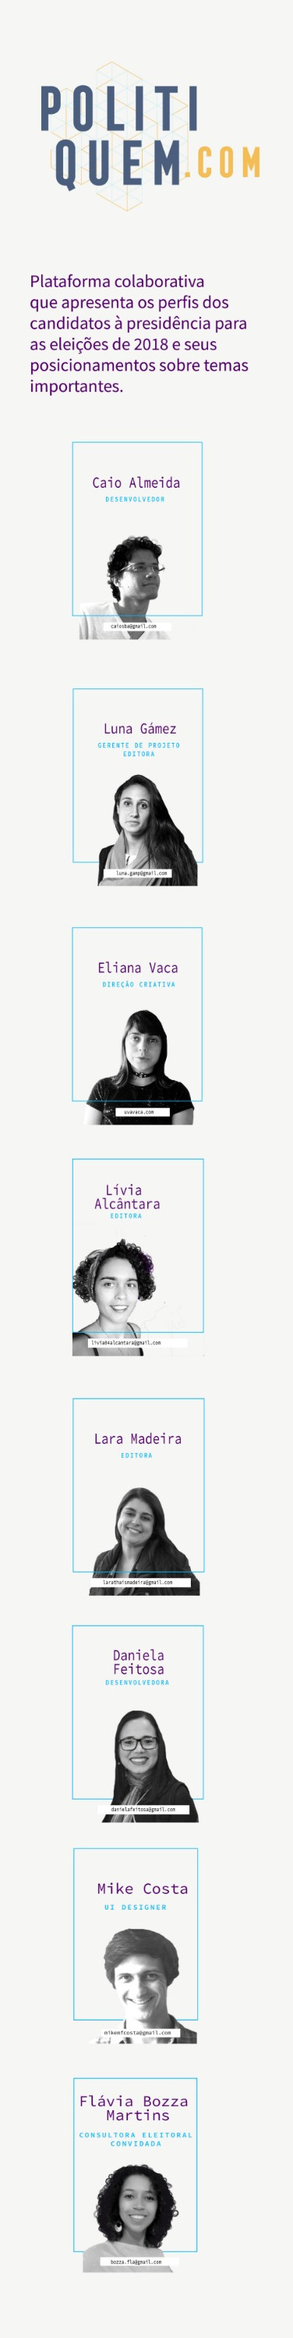
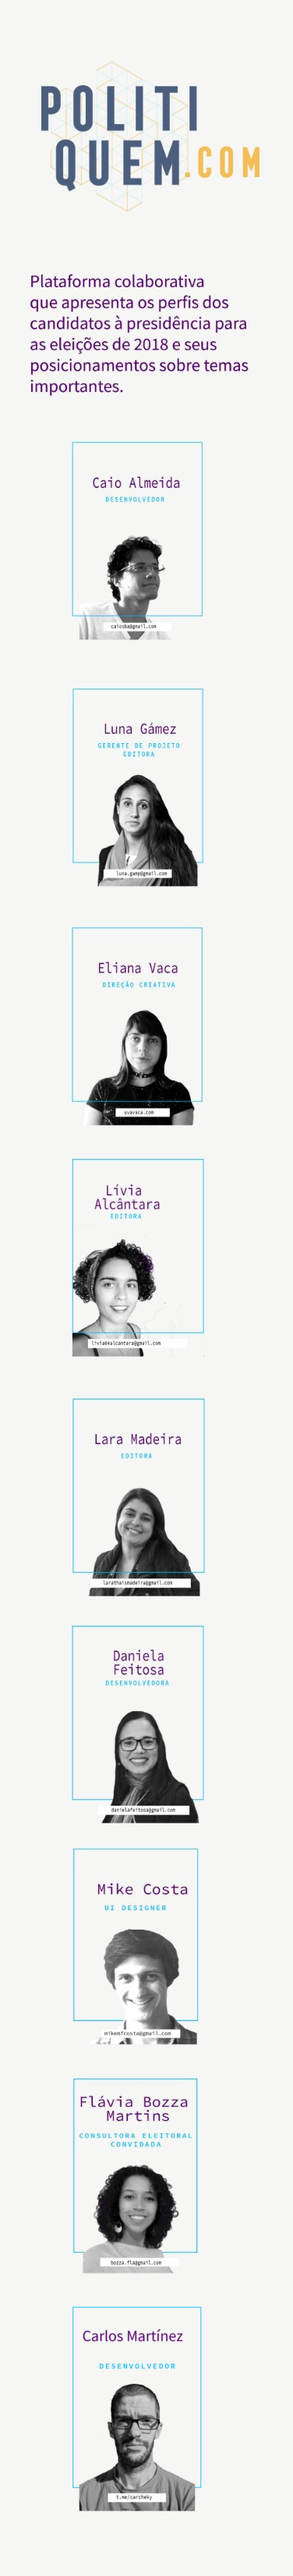
Update

diff --git a/politiquem-v2/src/App.js b/politiquem-v2/src/App.js
@@ -19,7 +19,7 @@ import img360 from './img/logo_360.png';
 import imgpoder from './img/logo_opodereleger.jpg';
 import imgbrazilian from './img/logo_brazilian.png';
 import imgjustificando from './img/logo_justificando.png';
-import imgcongreso from './img/logo_congressoemfoco.jpg';
+import imgcongreso from './img/logo_congressoemfoco.png';
 import imgchicas from './img/logo_chicas.png';
 import imgbriohunter from './img/logo_briohunter.png';
 import imgcheck from './img/check.png';
@@ -31,6 +31,9 @@ import chicas from './chicas.png';
 import justificando from './justificando.png';
 import poder360 from './poder360.png';
 import poderdeeleger from './poderdeeleger.png';
+import congresso from './congresso.png';
+import escavadores from './escavadores.png';
+import uniceub from './uniceub.png';
 
 import authorPolitiquem from './author/politiquem.png';
 import authorJustificando from './author/justificando.png';
@@ -55,6 +58,7 @@ class App extends Component {
     super(props);
     this.state = {
       showModal: false,
+      truncate: true,
       modalTopic: null,
       page: null,
       pageTopic: null,
@@ -74,6 +78,10 @@ class App extends Component {
     
   handleCloseModal() {
     this.setState({ showModal: false });
+  }
+
+  toggleTruncate() {
+    this.setState({ truncate: !this.state.truncate });
   }
 
   filter() {
@@ -99,6 +107,7 @@ class App extends Component {
       });
       document.getElementById('topic').value = 'all';
       document.getElementById('candidate').value = 'all';
+      document.location.hash = '';
     });
   }
 
@@ -128,15 +137,13 @@ class App extends Component {
   }
 
   setPageTopic(pageTopic) {
-    this.setState({ pageTopic });
-  }
-
-  componentDidMount() {
-    window.onhashchange = function() {
-      if (window.location.hash === '') {
-        window.location.reload();
-      }
-    };
+    if (pageTopic) {
+      window.location = '/#tema/' + pageTopic;
+    }
+    else {
+      window.location = '/#temas';
+    }
+    this.setState({ pageTopic, truncate: true });
   }
 
   componentWillMount() {
@@ -144,7 +151,10 @@ class App extends Component {
     const topicsPerCandidate = [];
     const allTopicsPerCandidate = [];
     let id = 0;
-    for (var name in data) {
+    const namesList = Object.keys(data).sort().reverse();
+    let i = 0;
+    for (i = 0; i < namesList.length; i++) {
+      const name = namesList[i];
       id++;
       const obj = data[name];
       const parts = data[name]['Nome Urna'].split(' ');
@@ -157,7 +167,7 @@ class App extends Component {
       obj.agency = 'Politiquem';
       candidates.push(obj);
     }
-    let i = 0;
+    i = 0;
     candidates.forEach(candidate => {
       topics.forEach(topic => {
         i++;
@@ -184,8 +194,38 @@ class App extends Component {
     });
   }
 
+  componentDidMount() {
+    const hash = document.location.hash;
+    if (/^#candidato/.test(hash)) {
+      const name = hash.replace(/^#candidato\//, '');
+      this.state.candidates.forEach((c) => {
+        if (c.name === decodeURIComponent(name)) {
+          this.selectCandidate(c);
+        }
+      });
+    }
+    else if (/^#temas$/.test(hash)) {
+      this.changePage('topics', { pageTopic: null });
+    }
+    else if (/^#tema/.test(hash)) {
+      const topic = hash.replace(/^#tema\//, '');
+      this.changePage('topics', { pageTopic: topic });
+    }
+    else if (/^#nos$/.test(hash)) {
+      this.changePage('us');
+    }
+    else if (/^#parceiros$/.test(hash)) {
+      this.changePage('partners');
+    }
+    window.onhashchange = function() {
+      if (window.location.hash === '') {
+        window.location.reload();
+      }
+    };
+  }
+
   resetCandidates() {
-    window.location.reload();
+    window.location = '/';
   }
 
   share(network) {
@@ -227,7 +267,7 @@ class App extends Component {
 
           <ul id="candidates">
             {this.state.candidates.length > 1 ? this.state.candidates.map(field => (
-              <a href={`#candidate-${field.id}`}>
+              <a href={`#candidato/${field.name}`}>
                 <li key={field.id} onClick={this.selectCandidate.bind(this, field)}>
                   <span className="avatar"><img src={field.Picture} alt="" /></span>
                   <h4>{field.name}</h4>
@@ -322,12 +362,16 @@ class App extends Component {
         <p>Designer digital de Portugal, que mistura arte e tecnologia. Seus trabalhos são focados em narrativa, design de interação, UI e desenvolvimento para web. E-mail mikemfcosta@gmail.com</p>
         <p><b>Flávia Bozza Martins, consultora eleitoral convidada</b></p>
         <p>Cientista política, especialista em comportamento eleitoral.É pós-doutoranda no IESP/UERJ e contribui como analista na empresa Vértice Inteligência Digital.</p>
+        <p><b></b></p>
+        <p><b>Carlos Martínez, desenvolvedor</b></p>
+        <p>Escoteiro e desenvolvedor web. Adora a tecnologia, os animais e a natureza. Seu principal desejo é contribuir com um mundo melhor utilizando a tecnologia. Contato: http://t.me/carcheky</p>
       </div>
     );
 
     const topicsPage = (
       <div className="page">
-        <h2>Tema{ this.state.pageTopic ? `: ${this.state.pageTopic}` : 's' } { this.state.pageTopic ? <FontAwesomeIcon onClick={this.handleOpenModal.bind(this, this.state.pageTopic)} style={{ color: '#CCC', cursor: 'pointer' }} icon={faQuestionCircle} /> : null }</h2>
+        <h2>Tema{ this.state.pageTopic ? `: ${this.state.pageTopic}` : 's' }</h2>
+        { this.state.pageTopic ? <p style={{ cursor: 'pointer' }} onClick={this.toggleTruncate.bind(this)}>{ this.state.truncate ? (data3[this.state.pageTopic].substring(0, 240) + '... (ver tudo)') : data3[this.state.pageTopic]}</p> : null }
         { this.state.pageTopic ? <p className="back" onClick={this.setPageTopic.bind(this, null)}><FontAwesomeIcon icon={faChevronLeft} /> Voltar</p> : null }
         { !this.state.pageTopic ? 
         <div className="topics-page">
@@ -482,6 +526,9 @@ class App extends Component {
           <img src={justificando} alt="" title="Justificando" />
           <img src={chicas} alt="" title="Chicas Poderosas" />
           <img src={check} alt="" title="Check" />
+          <img src={congresso} alt="" title="Congresso em Foco" />
+          <img src={uniceub} alt="" title="UNICEUB" />
+          <img src={escavadores} alt="" title="Escavadores" />
         </p> }
 
         <footer>

diff --git a/politiquem-v2/src/App.css b/politiquem-v2/src/App.css
@@ -392,7 +392,6 @@ div#candidate .field span {
   display: flex;
   flex-wrap: wrap;
   justify-content: center;
-  max-width: 960px;
 }
 
 .partners-page {
